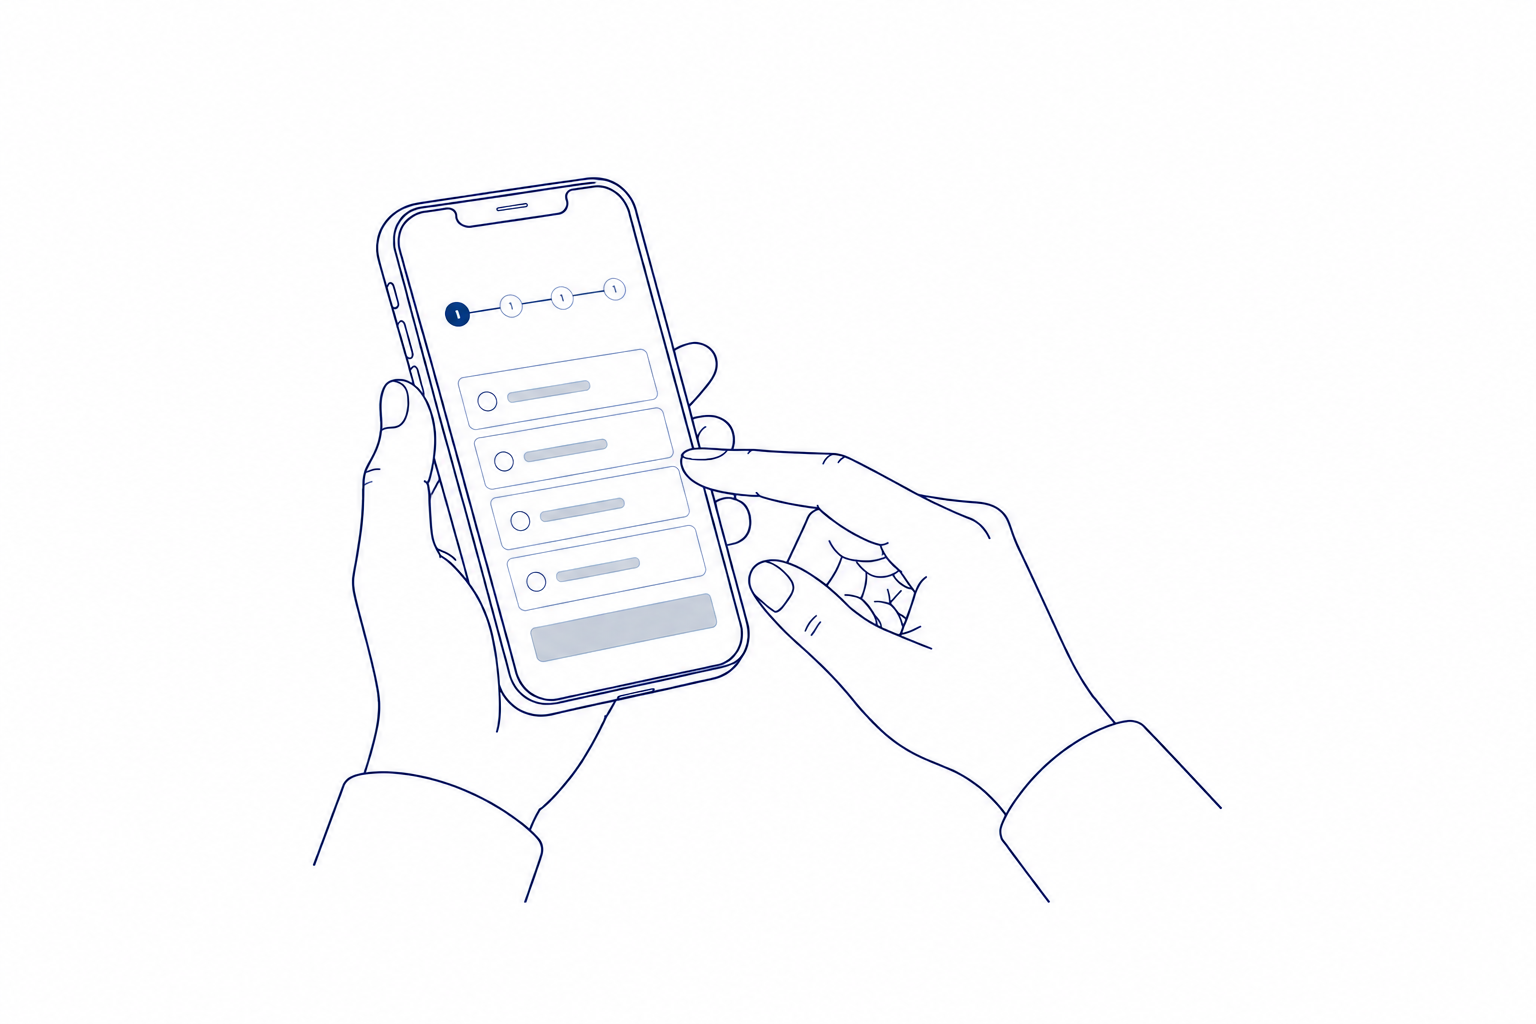
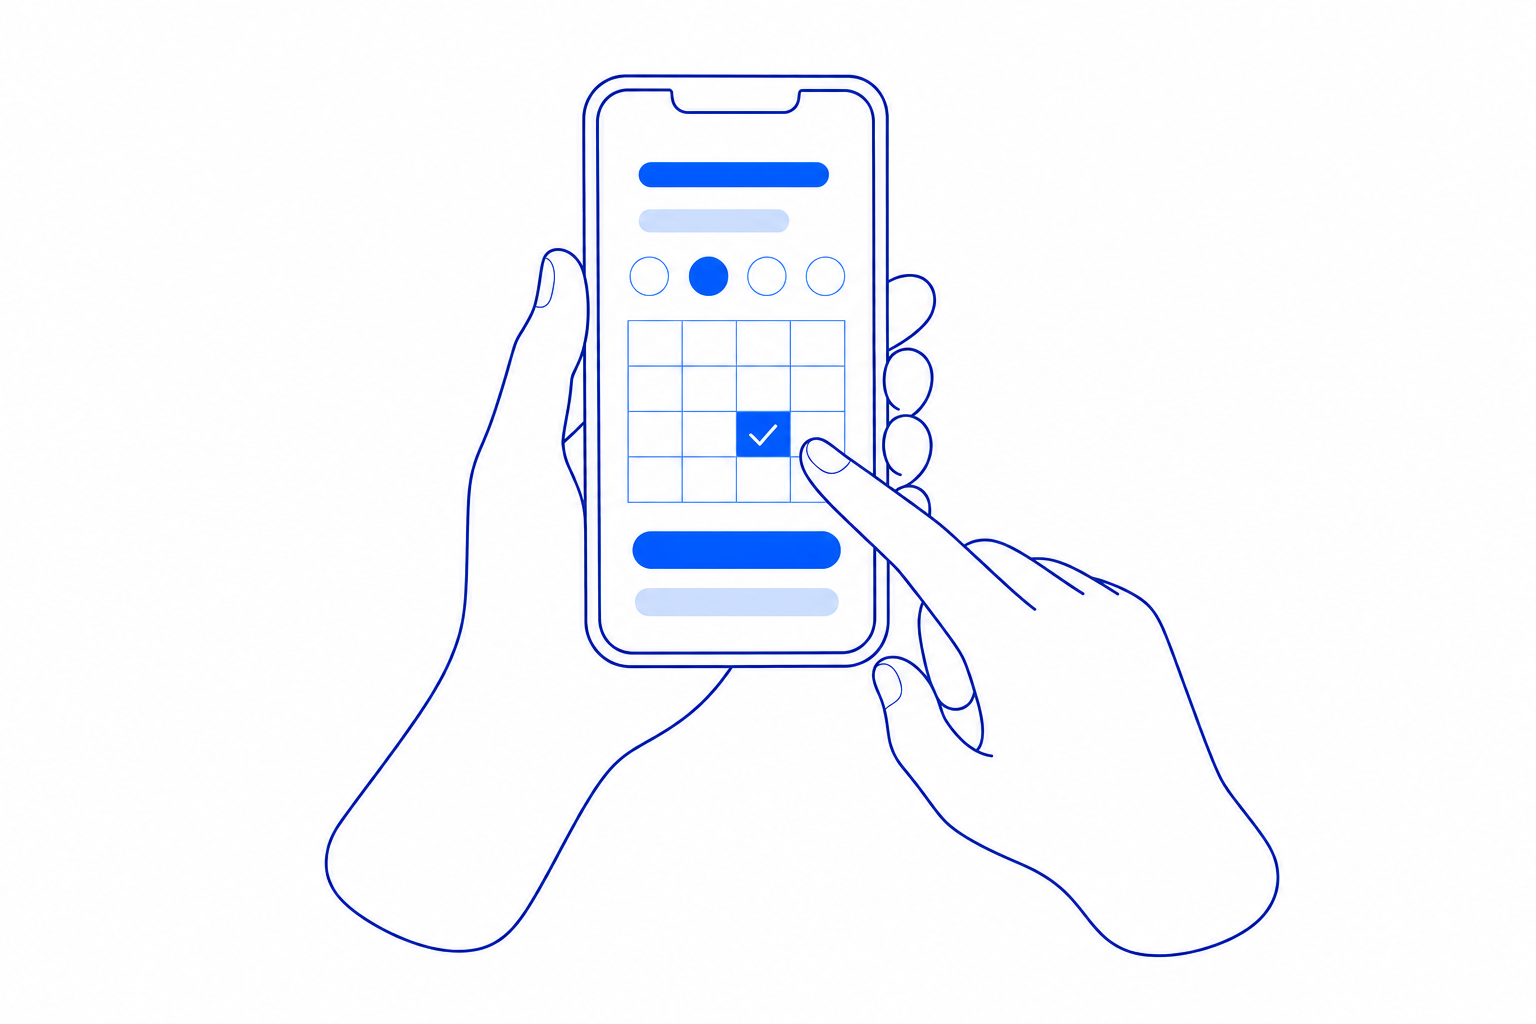
improved SplitSection.tsx and styling

diff --git a/src/components/SplitSection/SplitSection.tsx b/src/components/SplitSection/SplitSection.tsx
@@ -1,9 +1,10 @@
 import styles from "./SplitSection.module.css";
-import Container from "../Container/Container";
 import Subheading from "../Subheading/Subheading";
+import Container from "../Container/Container";
 
 type SplitSectionProps = {
     subheading?: string;
+    bgColor?: "blue" | "white";
     heading: string;
     intro?: string;
     imageClassName?: string;
@@ -15,22 +16,35 @@ export default function SplitSection({
     heading,
     intro,
     imageClassName,
-    children
+    children,
+    bgColor = "white"
 }: SplitSectionProps) {
     return (
-        <section className={styles.splitSection}>
-            <div className={styles.textSide}>
-                <Container>
-                    <div className={styles.textContent}>
-                        {subheading && (<Subheading text={subheading} alignment="left" />)}
-                        <h2>{heading}</h2>
-                        {intro && <p className={styles.introP}>{intro}</p>}
-                        {children}
-                    </div>
-                </Container>
-            </div>
-
-            <div className={`${styles.imageSide} ${imageClassName ?? ""}`} />
+        <section
+            className={[
+                styles.splitSection,
+                imageClassName
+            ]
+                .filter(Boolean)
+                .join(" ")
+            }
+            style={{
+                backgroundColor:
+                    bgColor === "blue"
+                        ? "#f2f8fe"
+                        : "#ffffff",
+            }}
+        >
+            <Container>
+                <div className={styles.textContent}>
+                    {subheading && (<Subheading text={subheading} alignment="left" />)}
+                    <h1>{heading}</h1>
+                    {intro && (<p className={styles.introP}>
+                        {intro}
+                    </p>)}
+                    {children}
+                </div>
+            </Container>
         </section>
     );
 }

diff --git a/src/components/Hero/Hero.tsx b/src/components/Hero/Hero.tsx
@@ -1,24 +1,21 @@
 import styles from "./Hero.module.css";
+import SplitSection from "../SplitSection/SplitSection";
 import Button from "../Button/Button";
-import Container from "../Container/Container";
+
 
 export default function Hero() {
     return (
-        <section className={styles.hero}>
-            <Container>
-                <div className={styles.heroContent}>
-                    <h1>Toronto's very best maid cleaning service</h1>
-                    <p>
-                        Rosie & Company helps keep homes fresh, clean, and
-                        welcoming throughout Toronto's west end. Proudly
-                        serving Liberty Village, High Park, and Etobicoke, we
-                        provide reliable, detail-oriented cleaning so you can
-                        spend less time cleaning and more time enjoying your home.
-                    </p>
-                    <Button to="/booking" variant="primary">Book an appointment</Button>
-                    <Button variant="secondary">Learn more</Button>
-                </div>
-            </Container>
-        </section>
+        <SplitSection
+            subheading="Rosie and Company"
+            heading="Toronto's very best maid cleaning service"
+            intro="Rosie & Company helps keep homes fresh, clean, and welcoming throughout Toronto's west end. Proudly serving Liberty Village, High Park, and Etobicoke, we provide reliable, detail-oriented cleaning so you can spend less time cleaning and more time relaxing."
+            imageClassName={styles.hero}
+            bgColor="blue"
+        >
+            <div className={styles.buttonContainer}>
+                <Button to="/booking" variant="primary">Book now</Button>
+                <Button variant="secondary">Learn more</Button>
+            </div>
+        </SplitSection>
     );
 }

diff --git a/src/components/SplitSection/SplitSection.module.css b/src/components/SplitSection/SplitSection.module.css
@@ -1,34 +1,39 @@
 .splitSection {
+    position: relative;
+    isolation: isolate;
     display: flex;
-    align-items: stretch;
-    min-height: 620px;
-}
+    align-items: center;
+    min-height: 680px;
+    overflow: hidden;
 
-.textSide {
-    width: 50%;
-    padding-left: max(32px, calc((100vw - 1280px) / 2));
-    box-sizing: border-box;
+    background-repeat: no-repeat;
+    background-position: calc(50% + var(--image-offset, min(25vw, 320px))) center;
+    background-size: auto var(--image-size, 80%);
 }
 
 .textContent {
-    padding: 224px 80px 224px 0;
+    max-width: 640px;
+    padding: 196px 80px 196px 0;
 }
 
-.imageSide {
-    width: 50%;
-    background-size: cover;
-    background-position: center;
-    background-repeat: no-repeat;
-}
 
 /* Typography */
-
-.textContent h2 {
-    text-wrap: balance;
+.textContent h1 {
     line-height: var(--line-height-heading-desktop);
+    text-wrap: balance;
 }
 
 .introP {
-    margin: 0;
+    margin: 0 0 var(--spacing-500) 0;
     text-wrap: balance;
+}
+
+.splitSection .buttonContainer {
+    display: flex;
+    gap: var(--spacing-200);
+}
+
+.splitSection button {
+    display: block;
+    margin-right: var(--spacing-200);
 }

diff --git a/src/components/Hero/Hero.module.css b/src/components/Hero/Hero.module.css
@@ -1,39 +1,10 @@
 .hero {
-    position: relative;
-    height: 750px;
-    max-width: 100%;
-    background-image: url("/images/hero/hero-bg-4.png");
-    background-size: 100%;
-    /* ^^^^ modify background-size in media query to adjust negative space for text overlay */
-    background-position: center;
-    background-repeat: no-repeat;
+    --image-offset: 420px;
+    --image-size: 80%;
+    background-image: url("/images/hero/hero.png");
+}
+
+.buttonContainer {
     display: flex;
-    align-items: center;
-}
-
-.heroContent {
-    position: relative;
-    width: 600px;
-    text-wrap: balance;
-    z-index: 1;
-}
-
-.heroContent h1 {
-    display: block;
-    font-size: 50px;
-    color: var(--text-color-primary);
-    line-height: var(--line-height-heading-desktop);
-    font-weight: 600;
-    margin-top: 0;
-    margin-bottom: var(--spacing-400);
-}
-
-.heroContent p {
-    margin: 0 0 var(--spacing-500) 0;
-    font-size: var(--font-size-p-desktop);
-}
-
-.heroContent button:first-of-type,
-.heroContent a:first-of-type {
-    margin-right: var(--spacing-200);
+    gap: var(--spacing-200);
 }

diff --git a/src/components/Sections/BookAnywhereSection/BookAnywhereSection.tsx b/src/components/Sections/BookAnywhereSection/BookAnywhereSection.tsx
@@ -6,7 +6,7 @@ export default function BookAnywhereSection() {
         <SplitSection
             subheading="Fast, flexible online booking"
             heading="Booking on the go, from anywhere"
-            intro="Our online booking system is fully responsive, making it easy to schedule your cleaning from your phone, tablet, or desktop—wherever you are. Build a cleaning plan that fits your home by choosing from our range of customizable services, then book with confidence knowing you can make changes if your plans change. We offer free cancellations with at least 24 hours' notice, giving you the flexibility to book without the stress."
+            intro="Our responsive booking system makes it easy to schedule a cleaning from your phone, tablet, or desktop. Build a plan that fits your home with our customizable services, and book with confidence knowing you can make changes. We offer free cancellations with at least 24 hours’ notice, giving you added flexibility."
             imageClassName={styles.bookAnywhere}
             children={null}
         />

diff --git a/index.html b/index.html
@@ -8,7 +8,7 @@
   <link rel="preconnect" href="https://fonts.googleapis.com">
   <link rel="preconnect" href="https://fonts.gstatic.com" crossorigin>
   <link
-    href="https://fonts.googleapis.com/css2?family=Google+Sans:ital,opsz,wght@0,17..18,400..700;1,17..18,400..700&family=Inter:ital,opsz,wght@0,14..32,100..900;1,14..32,100..900&display=block"
+    href="https://fonts.googleapis.com/css2?family=DM+Serif+Display:ital@0;1&family=Google+Sans:ital,opsz,wght@0,17..18,400..700;1,17..18,400..700&family=Inter:ital,opsz,wght@0,14..32,100..900;1,14..32,100..900&display=swap"
     rel="stylesheet">
 
   <meta name="viewport" content="width=device-width, initial-scale=1.0" />

diff --git a/src/components/BookingForm/steps/ConfirmationStep.tsx b/src/components/BookingForm/steps/ConfirmationStep.tsx
@@ -19,8 +19,7 @@ export default function ConfirmationStep({
             <h2>Your booking request has been received</h2>
 
             <p className={styles.supportingText}>
-                We've received your cleaning request and
-                sent a confirmation email to{" "}
+                We've received your cleaning request
                 <strong>{email}</strong>. We'll contact you
                 shortly to confirm your requested appointment.
             </p>

diff --git a/src/components/Navbar/Navbar.module.css b/src/components/Navbar/Navbar.module.css
@@ -1,7 +1,7 @@
 .navbar {
     width: 100%;
     padding: var(--spacing-500) 0;
-    font-size: 16px;
+    font-size: 14px;
     font-family: "Google Sans Flex";
     font-weight: 500;
     position: relative;
@@ -27,7 +27,7 @@
 }
 
 .navContent ul li {
-    margin-left: var(--spacing-900);
+    margin-left: var(--spacing-700);
 }
 
 .navContent ul li:first-of-type {

diff --git a/src/Global.css b/src/Global.css
@@ -20,8 +20,9 @@ p {
 h1 {
     font-size: var(--font-size-h1-desktop);
     margin: 0 0 var(--spacing-400) 0;
-    font-family: "Inter", sans-serif;
+    font-family: "Google Sans", sans-serif;
     font-weight: 600;
+    letter-spacing: -2px;
 }
 
 h2 {

diff --git a/src/components/Container/Container.module.css b/src/components/Container/Container.module.css
@@ -1,7 +1,7 @@
 .container {
     width: 100%;
-    max-width: 1280px;
+    max-width: 1480px;
     margin: 0 auto;
-    padding: 0 var(--spacing-400); 
+    padding: 0 var(--spacing-1600); 
     box-sizing: border-box;
 }

diff --git a/src/components/Sections/ServiceAreaSection/ServiceAreaSection.module.css b/src/components/Sections/ServiceAreaSection/ServiceAreaSection.module.css
@@ -1,5 +1,5 @@
 .map {
-    background-image: url("/images/service_area/service-area.png");
+    background-image: url("/images/service_area/service-area-2.png");
 }
 
 .listContainer ul {

diff --git a/src/components/Sections/BookAnywhereSection/BookAnywhereSection.module.css b/src/components/Sections/BookAnywhereSection/BookAnywhereSection.module.css
@@ -1,3 +1,5 @@
 .bookAnywhere {
+    --image-offset: 300px;
+    --image-size: 90%;
     background-image: url("/images/book_anywhere/book-anywhere.png");
 }
